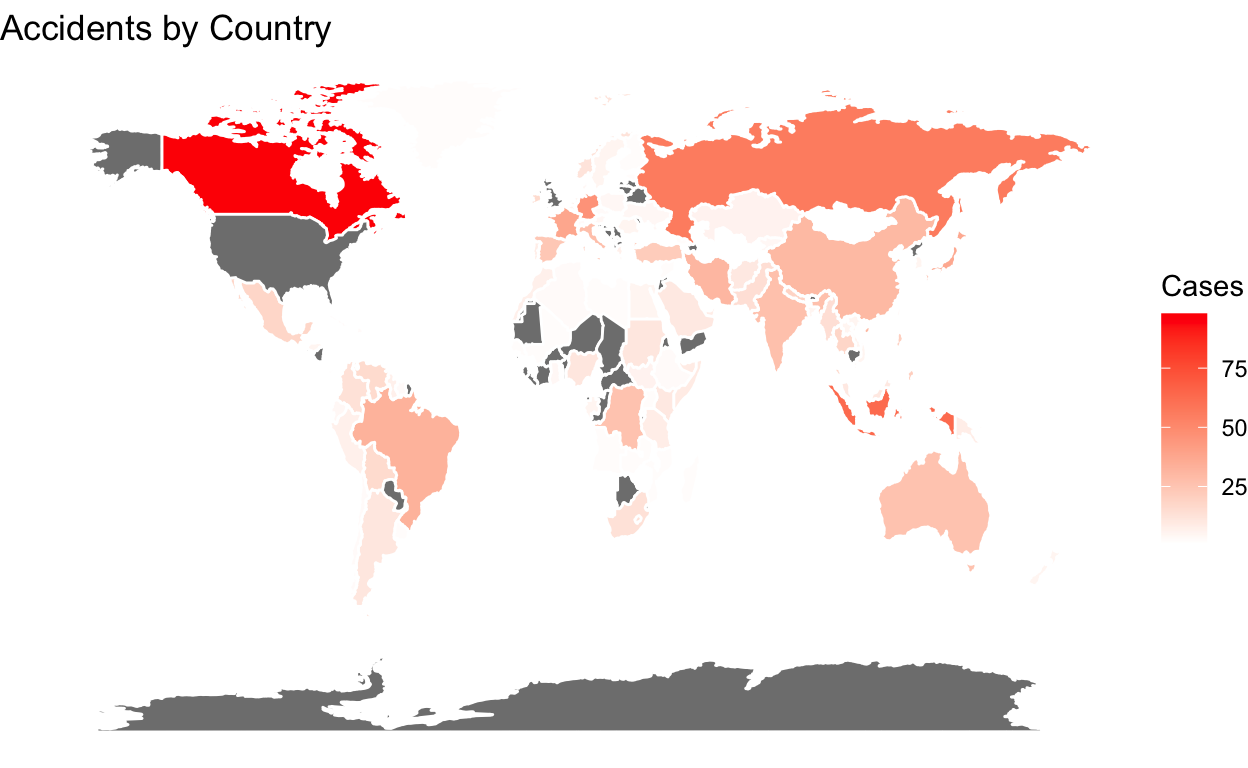
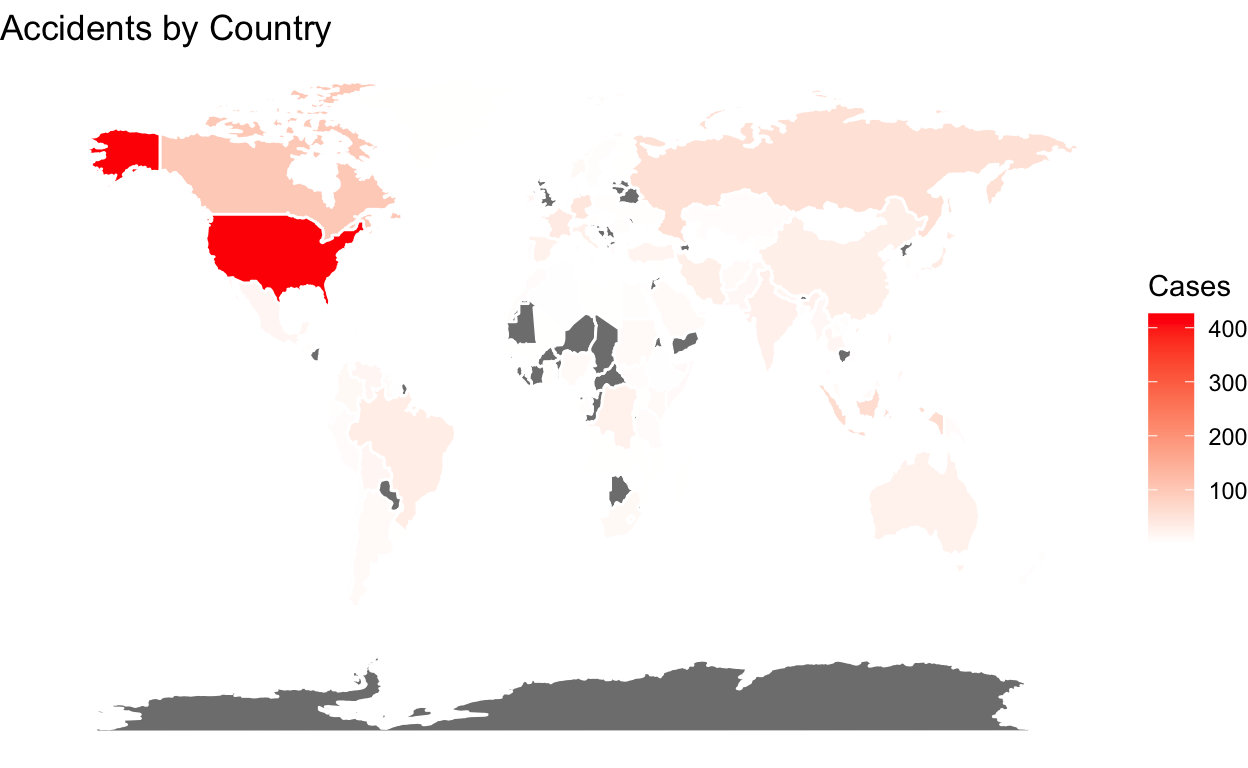
Change

diff --git a/docs/v1.html b/docs/v1.html
@@ -2178,7 +2178,7 @@ Data Visualizations
 <span><span class='va'>fig</span></span></code></pre>
 </div>
 <div class="plotly html-widget html-fill-item-overflow-hidden html-fill-item" id="htmlwidget-73e1abda7aca24d78759" style="width:624px;height:384px;"></div>
-<script type="application/json" data-for="htmlwidget-73e1abda7aca24d78759">{"x":{"visdat":{"53f86e322a04":["function () ","plotlyVisDat"]},"cur_data":"53f86e322a04","attrs":{"53f86e322a04":{"x":{},"y":{},"color":{},"size":{},"alpha_stroke":1,"sizes":[10,100],"spans":[1,20],"type":"bar"}},"layout":{"margin":{"b":40,"l":60,"t":25,"r":10},"legend":{"y":-0.5,"x":-0.1,"orientation":"h"},"title":"Risk Factors and Frequency Across 2008-2022","xaxis":{"domain":[0,1],"automargin":true,"title":"Year","type":"category","categoryorder":"array","categoryarray":["2008","2009","2010","2011","2012","2013","2014","2015","2016","2017","2018","2019","2020","2021","2022"]},"yaxis":{"domain":[0,1],"automargin":true,"title":"Freq"},"hovermode":"closest","showlegend":true},"source":"A","config":{"modeBarButtonsToAdd":["hoverclosest","hovercompare"],"showSendToCloud":false},"data":[{"x":["2008","2009","2010","2011","2012","2013","2014","2015","2016","2017","2018","2019","2020","2021","2022"],"y":[0,0,0,0,0,0,0,3,0,0,9,6,1,0,0],"type":"bar","name":"Cabin Safety Events","textfont":{"color":"rgba(102,194,165,1)","size":[10,10,10,10,10,10,10,12.621359223301,10,10,17.8640776699029,15.2427184466019,10.873786407767,10,10]},"error_y":{"color":"rgba(102,194,165,1)","width":[]},"error_x":{"color":"rgba(102,194,165,1)","width":[]},"marker":{"color":"rgba(102,194,165,1)","line":{"color":"rgba(102,194,165,1)"}},"xaxis":"x","yaxis":"y","frame":null},{"x":["2008","2009","2010","2011","2012","2013","2014","2015","2016","2017","2018","2019","2020","2021","2022"],"y":[9,9,6,6,3,3,3,0,2,1,1,0,1,1,1],"type":"bar","name":"Controlled Flight Into or Toward Terrain","textfont":{"color":"rgba(252,141,98,1)","size":[17.8640776699029,17.8640776699029,15.2427184466019,15.2427184466019,12.621359223301,12.621359223301,12.621359223301,10,11.747572815534,10.873786407767,10.873786407767,10,10.873786407767,10.873786407767,10.873786407767]},"error_y":{"color":"rgba(252,141,98,1)","width":[]},"error_x":{"color":"rgba(252,141,98,1)","width":[]},"marker":{"color":"rgba(252,141,98,1)","line":{"color":"rgba(252,141,98,1)"}},"xaxis":"x","yaxis":"y","frame":null},{"x":["2008","2009","2010","2011","2012","2013","2014","2015","2016","2017","2018","2019","2020","2021","2022"],"y":[10,3,4,8,2,1,2,3,1,0,1,2,1,0,0],"type":"bar","name":"Fire/Smoke","textfont":{"color":"rgba(141,160,203,1)","size":[18.7378640776699,12.621359223301,13.495145631068,16.9902912621359,11.747572815534,10.873786407767,11.747572815534,12.621359223301,10.873786407767,10,10.873786407767,11.747572815534,10.873786407767,10,10]},"error_y":{"color":"rgba(141,160,203,1)","width":[]},"error_x":{"color":"rgba(141,160,203,1)","width":[]},"marker":{"color":"rgba(141,160,203,1)","line":{"color":"rgba(141,160,203,1)"}},"xaxis":"x","yaxis":"y","frame":null},{"x":["2008","2009","2010","2011","2012","2013","2014","2015","2016","2017","2018","2019","2020","2021","2022"],"y":[10,5,6,8,1,3,2,6,6,5,6,3,1,0,1],"type":"bar","name":"Loss of Control- In Flight","textfont":{"color":"rgba(231,138,195,1)","size":[18.7378640776699,14.368932038835,15.2427184466019,16.9902912621359,10.873786407767,12.621359223301,11.747572815534,15.2427184466019,15.2427184466019,14.368932038835,15.2427184466019,12.621359223301,10.873786407767,10,10.873786407767]},"error_y":{"color":"rgba(231,138,195,1)","width":[]},"error_x":{"color":"rgba(231,138,195,1)","width":[]},"marker":{"color":"rgba(231,138,195,1)","line":{"color":"rgba(231,138,195,1)"}},"xaxis":"x","yaxis":"y","frame":null},{"x":["2008","2009","2010","2011","2012","2013","2014","2015","2016","2017","2018","2019","2020","2021","2022"],"y":[100,71,103,81,57,90,73,43,65,62,66,78,7,16,9],"type":"bar","name":"Runway Safety","textfont":{"color":"rgba(166,216,84,1)","size":[97.378640776699,72.0388349514563,100,80.7766990291262,59.8058252427184,88.6407766990291,73.7864077669903,47.5728155339806,66.7961165048544,64.1747572815534,67.6699029126214,78.1553398058252,16.1165048543689,23.9805825242718,17.8640776699029]},"error_y":{"color":"rgba(166,216,84,1)","width":[]},"error_x":{"color":"rgba(166,216,84,1)","width":[]},"marker":{"color":"rgba(166,216,84,1)","line":{"color":"rgba(166,216,84,1)"}},"xaxis":"x","yaxis":"y","frame":null},{"x":["2008","2009","2010","2011","2012","2013","2014","2015","2016","2017","2018","2019","2020","2021","2022"],"y":[18,15,28,15,13,12,16,9,11,1,0,0,0,0,0],"type":"bar","name":"System/Component Failture or Malfunction","textfont":{"color":"rgba(255,217,47,1)","size":[25.7281553398058,23.1067961165049,34.4660194174757,23.1067961165049,21.3592233009709,20.4854368932039,23.9805825242718,17.8640776699029,19.6116504854369,10.873786407767,10,10,10,10,10]},"error_y":{"color":"rgba(255,217,47,1)","width":[]},"error_x":{"color":"rgba(255,217,47,1)","width":[]},"marker":{"color":"rgba(255,217,47,1)","line":{"color":"rgba(255,217,47,1)"}},"xaxis":"x","yaxis":"y","frame":null},{"x":["2008","2009","2010","2011","2012","2013","2014","2015","2016","2017","2018","2019","2020","2021","2022"],"y":[13,18,11,16,20,15,19,21,15,1,18,27,12,2,0],"type":"bar","name":"Turbulence Encounter","textfont":{"color":"rgba(229,196,148,1)","size":[21.3592233009709,25.7281553398058,19.6116504854369,23.9805825242718,27.4757281553398,23.1067961165049,26.6019417475728,28.3495145631068,23.1067961165049,10.873786407767,25.7281553398058,33.5922330097087,20.4854368932039,11.747572815534,10]},"error_y":{"color":"rgba(229,196,148,1)","width":[]},"error_x":{"color":"rgba(229,196,148,1)","width":[]},"marker":{"color":"rgba(229,196,148,1)","line":{"color":"rgba(229,196,148,1)"}},"xaxis":"x","yaxis":"y","frame":null}],"highlight":{"on":"plotly_click","persistent":false,"dynamic":false,"selectize":false,"opacityDim":0.2,"selected":{"opacity":1},"debounce":0},"shinyEvents":["plotly_hover","plotly_click","plotly_selected","plotly_relayout","plotly_brushed","plotly_brushing","plotly_clickannotation","plotly_doubleclick","plotly_deselect","plotly_afterplot","plotly_sunburstclick"],"base_url":"https://plot.ly"},"evals":[],"jsHooks":[]}</script>
+<script type="application/json" data-for="htmlwidget-73e1abda7aca24d78759">{"x":{"visdat":{"57d317d23540":["function () ","plotlyVisDat"]},"cur_data":"57d317d23540","attrs":{"57d317d23540":{"x":{},"y":{},"color":{},"size":{},"alpha_stroke":1,"sizes":[10,100],"spans":[1,20],"type":"bar"}},"layout":{"margin":{"b":40,"l":60,"t":25,"r":10},"legend":{"y":-0.5,"x":-0.1,"orientation":"h"},"title":"Risk Factors and Frequency Across 2008-2022","xaxis":{"domain":[0,1],"automargin":true,"title":"Year","type":"category","categoryorder":"array","categoryarray":["2008","2009","2010","2011","2012","2013","2014","2015","2016","2017","2018","2019","2020","2021","2022"]},"yaxis":{"domain":[0,1],"automargin":true,"title":"Freq"},"hovermode":"closest","showlegend":true},"source":"A","config":{"modeBarButtonsToAdd":["hoverclosest","hovercompare"],"showSendToCloud":false},"data":[{"x":["2008","2009","2010","2011","2012","2013","2014","2015","2016","2017","2018","2019","2020","2021","2022"],"y":[0,0,0,0,0,0,0,3,0,0,9,6,1,0,0],"type":"bar","name":"Cabin Safety Events","textfont":{"color":"rgba(102,194,165,1)","size":[10,10,10,10,10,10,10,12.621359223301,10,10,17.8640776699029,15.2427184466019,10.873786407767,10,10]},"error_y":{"color":"rgba(102,194,165,1)","width":[]},"error_x":{"color":"rgba(102,194,165,1)","width":[]},"marker":{"color":"rgba(102,194,165,1)","line":{"color":"rgba(102,194,165,1)"}},"xaxis":"x","yaxis":"y","frame":null},{"x":["2008","2009","2010","2011","2012","2013","2014","2015","2016","2017","2018","2019","2020","2021","2022"],"y":[9,9,6,6,3,3,3,0,2,1,1,0,1,1,1],"type":"bar","name":"Controlled Flight Into or Toward Terrain","textfont":{"color":"rgba(252,141,98,1)","size":[17.8640776699029,17.8640776699029,15.2427184466019,15.2427184466019,12.621359223301,12.621359223301,12.621359223301,10,11.747572815534,10.873786407767,10.873786407767,10,10.873786407767,10.873786407767,10.873786407767]},"error_y":{"color":"rgba(252,141,98,1)","width":[]},"error_x":{"color":"rgba(252,141,98,1)","width":[]},"marker":{"color":"rgba(252,141,98,1)","line":{"color":"rgba(252,141,98,1)"}},"xaxis":"x","yaxis":"y","frame":null},{"x":["2008","2009","2010","2011","2012","2013","2014","2015","2016","2017","2018","2019","2020","2021","2022"],"y":[10,3,4,8,2,1,2,3,1,0,1,2,1,0,0],"type":"bar","name":"Fire/Smoke","textfont":{"color":"rgba(141,160,203,1)","size":[18.7378640776699,12.621359223301,13.495145631068,16.9902912621359,11.747572815534,10.873786407767,11.747572815534,12.621359223301,10.873786407767,10,10.873786407767,11.747572815534,10.873786407767,10,10]},"error_y":{"color":"rgba(141,160,203,1)","width":[]},"error_x":{"color":"rgba(141,160,203,1)","width":[]},"marker":{"color":"rgba(141,160,203,1)","line":{"color":"rgba(141,160,203,1)"}},"xaxis":"x","yaxis":"y","frame":null},{"x":["2008","2009","2010","2011","2012","2013","2014","2015","2016","2017","2018","2019","2020","2021","2022"],"y":[10,5,6,8,1,3,2,6,6,5,6,3,1,0,1],"type":"bar","name":"Loss of Control- In Flight","textfont":{"color":"rgba(231,138,195,1)","size":[18.7378640776699,14.368932038835,15.2427184466019,16.9902912621359,10.873786407767,12.621359223301,11.747572815534,15.2427184466019,15.2427184466019,14.368932038835,15.2427184466019,12.621359223301,10.873786407767,10,10.873786407767]},"error_y":{"color":"rgba(231,138,195,1)","width":[]},"error_x":{"color":"rgba(231,138,195,1)","width":[]},"marker":{"color":"rgba(231,138,195,1)","line":{"color":"rgba(231,138,195,1)"}},"xaxis":"x","yaxis":"y","frame":null},{"x":["2008","2009","2010","2011","2012","2013","2014","2015","2016","2017","2018","2019","2020","2021","2022"],"y":[100,71,103,81,57,90,73,43,65,62,66,78,7,16,9],"type":"bar","name":"Runway Safety","textfont":{"color":"rgba(166,216,84,1)","size":[97.378640776699,72.0388349514563,100,80.7766990291262,59.8058252427184,88.6407766990291,73.7864077669903,47.5728155339806,66.7961165048544,64.1747572815534,67.6699029126214,78.1553398058252,16.1165048543689,23.9805825242718,17.8640776699029]},"error_y":{"color":"rgba(166,216,84,1)","width":[]},"error_x":{"color":"rgba(166,216,84,1)","width":[]},"marker":{"color":"rgba(166,216,84,1)","line":{"color":"rgba(166,216,84,1)"}},"xaxis":"x","yaxis":"y","frame":null},{"x":["2008","2009","2010","2011","2012","2013","2014","2015","2016","2017","2018","2019","2020","2021","2022"],"y":[18,15,28,15,13,12,16,9,11,1,0,0,0,0,0],"type":"bar","name":"System/Component Failture or Malfunction","textfont":{"color":"rgba(255,217,47,1)","size":[25.7281553398058,23.1067961165049,34.4660194174757,23.1067961165049,21.3592233009709,20.4854368932039,23.9805825242718,17.8640776699029,19.6116504854369,10.873786407767,10,10,10,10,10]},"error_y":{"color":"rgba(255,217,47,1)","width":[]},"error_x":{"color":"rgba(255,217,47,1)","width":[]},"marker":{"color":"rgba(255,217,47,1)","line":{"color":"rgba(255,217,47,1)"}},"xaxis":"x","yaxis":"y","frame":null},{"x":["2008","2009","2010","2011","2012","2013","2014","2015","2016","2017","2018","2019","2020","2021","2022"],"y":[13,18,11,16,20,15,19,21,15,1,18,27,12,2,0],"type":"bar","name":"Turbulence Encounter","textfont":{"color":"rgba(229,196,148,1)","size":[21.3592233009709,25.7281553398058,19.6116504854369,23.9805825242718,27.4757281553398,23.1067961165049,26.6019417475728,28.3495145631068,23.1067961165049,10.873786407767,25.7281553398058,33.5922330097087,20.4854368932039,11.747572815534,10]},"error_y":{"color":"rgba(229,196,148,1)","width":[]},"error_x":{"color":"rgba(229,196,148,1)","width":[]},"marker":{"color":"rgba(229,196,148,1)","line":{"color":"rgba(229,196,148,1)"}},"xaxis":"x","yaxis":"y","frame":null}],"highlight":{"on":"plotly_click","persistent":false,"dynamic":false,"selectize":false,"opacityDim":0.2,"selected":{"opacity":1},"debounce":0},"shinyEvents":["plotly_hover","plotly_click","plotly_selected","plotly_relayout","plotly_brushed","plotly_brushing","plotly_clickannotation","plotly_doubleclick","plotly_deselect","plotly_afterplot","plotly_sunburstclick"],"base_url":"https://plot.ly"},"evals":[],"jsHooks":[]}</script>
 </div>
 <p>Please see the abbreviation in the <a href="https://www.icao.int/APAC/Meetings/2012_APRAST/OccurrenceCategoryDefinitions.pdf">Risk Factor Hand Book</a></p>
 <p>This plot represents the number of accidents (from 2008 - 2022) each year and the risk factor of the accidents based on the result of aviation occurrence investigation.The x axis represents the year from 2008 to 2022, and the y axis represents the number of accidents. The risk factors are represented by the colors on the histogram. In the interactive graph, readers can click on to see the actual accidents number for the year. From this plot, we can easily distinguish that most of accidents occurred because of “Runway Safety”, and there are most accidents happened in 2014.</p>

diff --git a/docs/v3.html b/docs/v3.html
@@ -2150,7 +2150,10 @@ Data Visualizations
 <span><span class='va'>df</span> <span class='op'>&lt;-</span> <span class='fu'><a href='https://dplyr.tidyverse.org/reference/mutate-joins.html'>left_join</a></span><span class='op'>(</span><span class='va'>df</span>, <span class='va'>world</span><span class='op'>)</span></span>
 <span><span class='va'>com</span> <span class='op'>&lt;-</span> <span class='fu'><a href='https://dplyr.tidyverse.org/reference/filter.html'>filter</a></span><span class='op'>(</span><span class='va'>df</span>, <span class='va'>df</span><span class='op'>$</span><span class='va'>ScheduledCommercial</span> <span class='op'>==</span> <span class='st'>"True"</span><span class='op'>)</span> <span class='op'><a href='https://magrittr.tidyverse.org/reference/pipe.html'>%&gt;%</a></span> <span class='fu'><a href='https://dplyr.tidyverse.org/reference/select.html'>select</a></span><span class='op'>(</span><span class='va'>Year</span>, <span class='va'>Country</span>, <span class='va'>Model</span>, <span class='va'>Fatalities</span>, <span class='va'>Over2250</span>, <span class='va'>Over5700</span>, <span class='va'>InjuryLevel</span>, <span class='va'>Risk</span>, <span class='va'>FlightPhase</span>, <span class='va'>EngineType</span><span class='op'>)</span></span>
 <span></span>
-<span><span class='va'>country</span> <span class='op'>&lt;-</span> <span class='fu'><a href='https://rdrr.io/r/base/data.frame.html'>data.frame</a></span><span class='op'>(</span><span class='fu'><a href='https://rdrr.io/r/base/table.html'>table</a></span><span class='op'>(</span><span class='va'>com</span><span class='op'>$</span><span class='va'>Country</span><span class='op'>)</span><span class='op'>)</span> <span class='op'><a href='https://magrittr.tidyverse.org/reference/pipe.html'>%&gt;%</a></span> <span class='fu'><a href='https://dplyr.tidyverse.org/reference/rename.html'>rename</a></span><span class='op'>(</span>Cases <span class='op'>=</span> <span class='va'>Freq</span><span class='op'>)</span></span></code></pre>
+<span><span class='va'>country</span> <span class='op'>&lt;-</span> <span class='fu'><a href='https://rdrr.io/r/base/data.frame.html'>data.frame</a></span><span class='op'>(</span><span class='fu'><a href='https://rdrr.io/r/base/table.html'>table</a></span><span class='op'>(</span><span class='va'>com</span><span class='op'>$</span><span class='va'>Country</span><span class='op'>)</span><span class='op'>)</span> <span class='op'><a href='https://magrittr.tidyverse.org/reference/pipe.html'>%&gt;%</a></span> <span class='fu'><a href='https://dplyr.tidyverse.org/reference/rename.html'>rename</a></span><span class='op'>(</span>Country <span class='op'>=</span> <span class='va'>Var1</span>, Cases <span class='op'>=</span> <span class='va'>Freq</span><span class='op'>)</span></span>
+<span><span class='va'>country</span><span class='op'>$</span><span class='va'>Country</span> <span class='op'>&lt;-</span> <span class='fu'><a href='https://rdrr.io/r/base/character.html'>as.character</a></span><span class='op'>(</span><span class='va'>country</span><span class='op'>$</span><span class='va'>Country</span><span class='op'>)</span></span>
+<span><span class='va'>country</span><span class='op'>$</span><span class='va'>Country</span><span class='op'>[</span><span class='va'>country</span><span class='op'>$</span><span class='va'>Country</span> <span class='op'>==</span> <span class='st'>"United States"</span><span class='op'>]</span> <span class='op'>&lt;-</span> <span class='st'>"USA"</span></span>
+<span><span class='va'>country</span><span class='op'>$</span><span class='va'>Country</span> <span class='op'>&lt;-</span> <span class='fu'><a href='https://rdrr.io/r/base/factor.html'>as.factor</a></span><span class='op'>(</span><span class='va'>country</span><span class='op'>$</span><span class='va'>Country</span><span class='op'>)</span></span></code></pre>
 </div>
 </div>
 <div class="layout-chunk" data-layout="l-body">
@@ -2159,7 +2162,7 @@ Data Visualizations
 <span><span class='kw'><a href='https://rdrr.io/r/base/library.html'>library</a></span><span class='op'>(</span><span class='va'>maps</span><span class='op'>)</span></span>
 <span><span class='kw'><a href='https://rdrr.io/r/base/library.html'>library</a></span><span class='op'>(</span><span class='va'><a href='https://dplyr.tidyverse.org'>dplyr</a></span><span class='op'>)</span></span>
 <span></span>
-<span><span class='va'>world_map</span> <span class='op'>&lt;-</span> <span class='fu'><a href='https://ggplot2.tidyverse.org/reference/map_data.html'>map_data</a></span><span class='op'>(</span><span class='st'>"world"</span><span class='op'>)</span> <span class='op'><a href='https://magrittr.tidyverse.org/reference/pipe.html'>%&gt;%</a></span> <span class='fu'><a href='https://dplyr.tidyverse.org/reference/mutate-joins.html'>left_join</a></span><span class='op'>(</span><span class='va'>country</span>, by <span class='op'>=</span> <span class='fu'><a href='https://rdrr.io/r/base/c.html'>c</a></span><span class='op'>(</span><span class='st'>"region"</span> <span class='op'>=</span> <span class='st'>"Var1"</span><span class='op'>)</span><span class='op'>)</span></span>
+<span><span class='va'>world_map</span> <span class='op'>&lt;-</span> <span class='fu'><a href='https://ggplot2.tidyverse.org/reference/map_data.html'>map_data</a></span><span class='op'>(</span><span class='st'>"world"</span><span class='op'>)</span> <span class='op'><a href='https://magrittr.tidyverse.org/reference/pipe.html'>%&gt;%</a></span> <span class='fu'><a href='https://dplyr.tidyverse.org/reference/mutate-joins.html'>left_join</a></span><span class='op'>(</span><span class='va'>country</span>, by <span class='op'>=</span> <span class='fu'><a href='https://rdrr.io/r/base/c.html'>c</a></span><span class='op'>(</span><span class='st'>"region"</span> <span class='op'>=</span> <span class='st'>"Country"</span><span class='op'>)</span><span class='op'>)</span></span>
 <span><span class='fu'><a href='https://ggplot2.tidyverse.org/reference/ggplot.html'>ggplot</a></span><span class='op'>(</span><span class='va'>world_map</span>, <span class='fu'><a href='https://ggplot2.tidyverse.org/reference/aes.html'>aes</a></span><span class='op'>(</span>x <span class='op'>=</span> <span class='va'>long</span>, y <span class='op'>=</span> <span class='va'>lat</span>, group <span class='op'>=</span> <span class='va'>group</span>, fill <span class='op'>=</span> <span class='va'>Cases</span><span class='op'>)</span><span class='op'>)</span> <span class='op'>+</span></span>
 <span>  <span class='fu'><a href='https://ggplot2.tidyverse.org/reference/geom_polygon.html'>geom_polygon</a></span><span class='op'>(</span>color <span class='op'>=</span> <span class='st'>"white"</span><span class='op'>)</span> <span class='op'>+</span></span>
 <span>  <span class='fu'><a href='https://ggplot2.tidyverse.org/reference/scale_gradient.html'>scale_fill_gradient</a></span><span class='op'>(</span>low <span class='op'>=</span> <span class='st'>"white"</span>, high <span class='op'>=</span> <span class='st'>"red"</span><span class='op'>)</span> <span class='op'>+</span></span>

diff --git a/docs/AboutData.html b/docs/AboutData.html
@@ -2265,13 +2265,13 @@ Data Visualizations
 </tbody>
 </table>
 </div>
-<p>Add up the fatality number for each year for each country</p>
+<p>Add up the fatality number for each year for each country:</p>
 <div class="layout-chunk" data-layout="l-body">
 <div class="sourceCode">
 <pre class="sourceCode r"><code class="sourceCode r"><span><span class='va'>coun</span><span class='op'>&lt;-</span> <span class='va'>com</span> <span class='op'><a href='https://magrittr.tidyverse.org/reference/pipe.html'>%&gt;%</a></span> <span class='fu'><a href='https://dplyr.tidyverse.org/reference/group_by.html'>group_by</a></span><span class='op'>(</span><span class='va'>Country</span>, na.rm <span class='op'>=</span> <span class='cn'>T</span><span class='op'>)</span> <span class='op'><a href='https://magrittr.tidyverse.org/reference/pipe.html'>%&gt;%</a></span> <span class='fu'><a href='https://dplyr.tidyverse.org/reference/mutate.html'>mutate</a></span><span class='op'>(</span>num_fatal <span class='op'>=</span> <span class='fu'><a href='https://rdrr.io/r/base/sum.html'>sum</a></span><span class='op'>(</span><span class='va'>Fatalities</span>, na.rm <span class='op'>=</span> <span class='cn'>T</span><span class='op'>)</span><span class='op'>)</span></span></code></pre>
 </div>
 </div>
-Add up the fatality number for each year for each country
+<p>Add up the fatality number for each year for each Flight Phase:</p>
 <div class="layout-chunk" data-layout="l-body">
 <div class="sourceCode">
 <pre class="sourceCode r"><code class="sourceCode r"><span><span class='va'>FP</span> <span class='op'>&lt;-</span> <span class='va'>com</span> <span class='op'><a href='https://magrittr.tidyverse.org/reference/pipe.html'>%&gt;%</a></span> <span class='fu'><a href='https://dplyr.tidyverse.org/reference/group_by.html'>group_by</a></span><span class='op'>(</span><span class='va'>FlightPhase</span>, na.rm <span class='op'>=</span> <span class='cn'>T</span><span class='op'>)</span> <span class='op'><a href='https://magrittr.tidyverse.org/reference/pipe.html'>%&gt;%</a></span> <span class='fu'><a href='https://dplyr.tidyverse.org/reference/mutate.html'>mutate</a></span><span class='op'>(</span>num_fatal <span class='op'>=</span> <span class='fu'><a href='https://rdrr.io/r/base/sum.html'>sum</a></span><span class='op'>(</span><span class='va'>Fatalities</span>, na.rm <span class='op'>=</span> <span class='cn'>T</span><span class='op'>)</span><span class='op'>)</span></span></code></pre>
